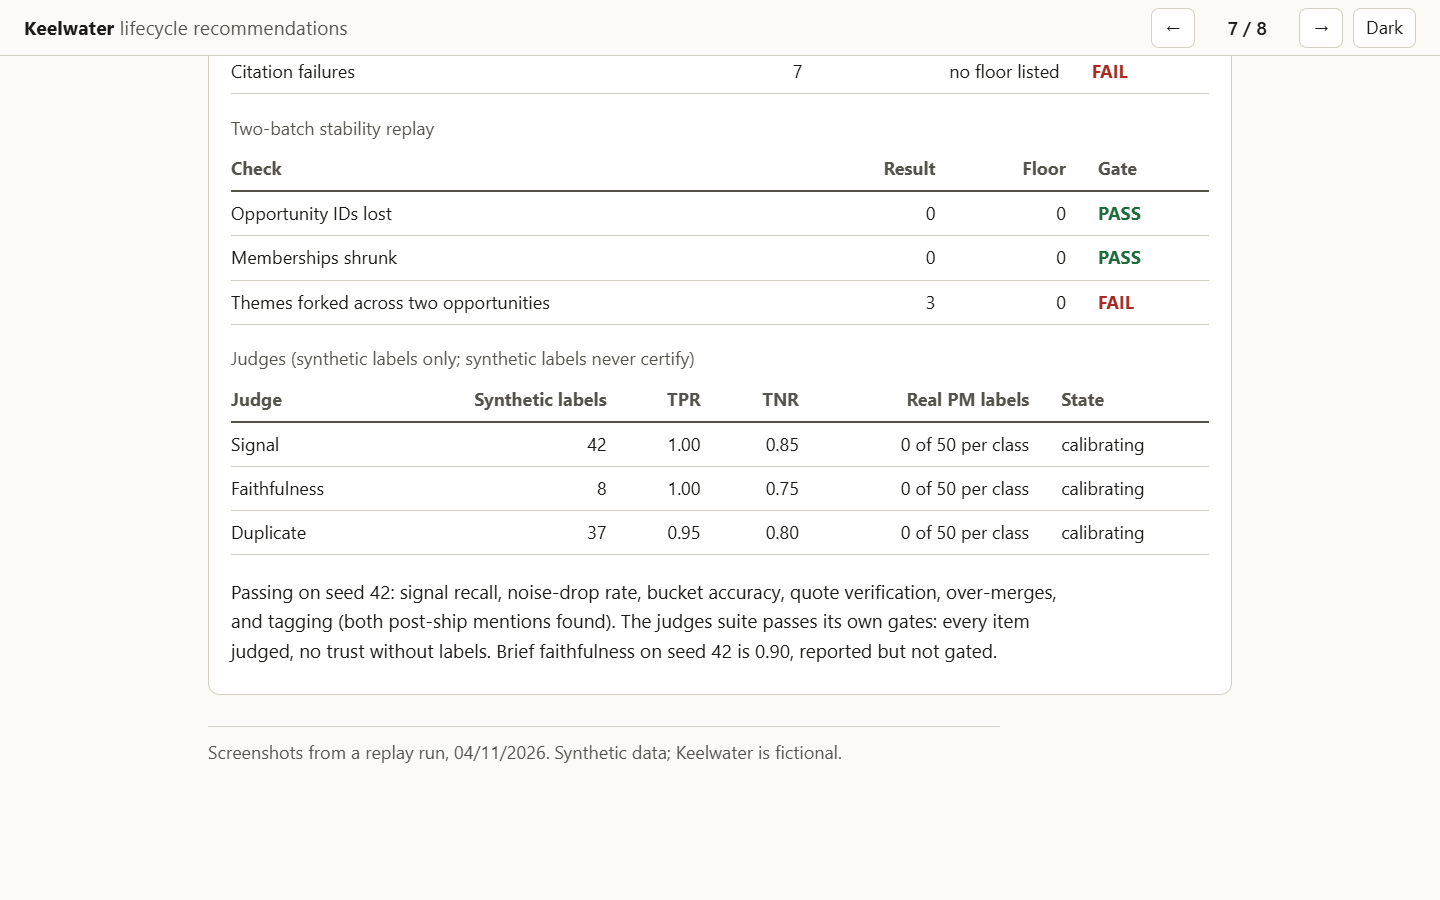
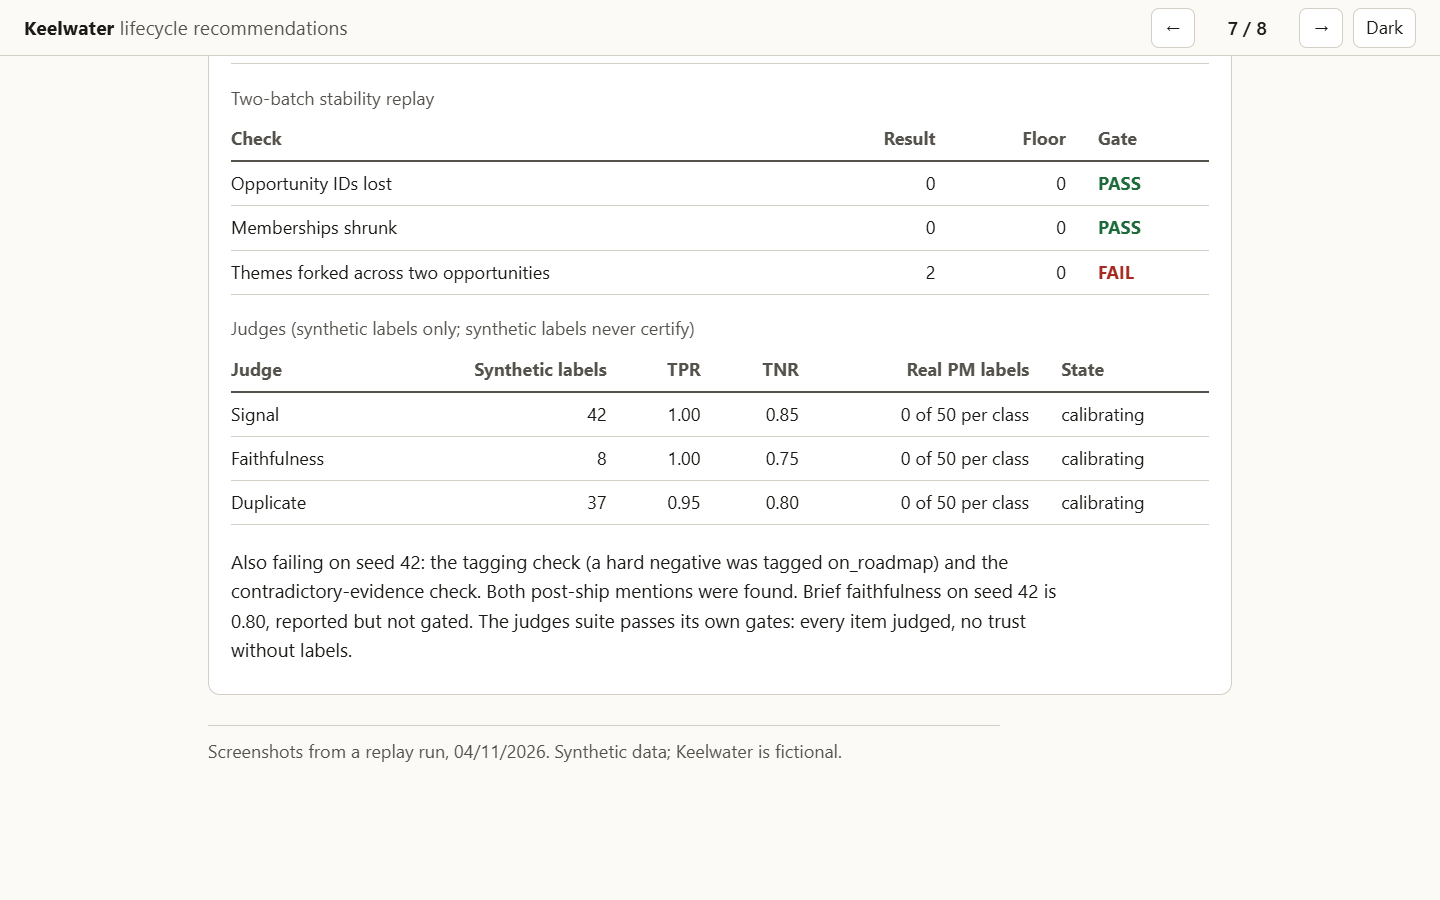
Deck: slide 7 reflects the PR #55 re-runs; two src comments (#40)
Claude-Session: https://claude.ai/code/session_01EjiHfnQNyk2qKsKvuTaiFz

diff --git a/site/presentation/index.html b/site/presentation/index.html
@@ -222,7 +222,7 @@ figure img{width:100%;height:auto;display:block;border:1px solid var(--rule);bor
 <ul>
 <li>Halving idea-to-customer time within 18 months is not plausible on my mid inputs: 79% of today's lead time at month 18.<!-- src: reports/halving/summary.md --></li>
 <li>Six recommendations follow, each linked to its slide.<!-- src: docs/part1-diagnosis-and-plan.md --></li>
-<li>Part 2 runs end to end, but its quality floors fail on the latest eval run (slide 7).<!-- src: reports/eval/ground-truth-f035b27a33a941fb.json --></li>
+<li>Part 2 runs end to end, but its quality floors fail on the latest eval run (slide 7).<!-- src: reports/eval/ground-truth-6eb6524e16bf4ed7.json --></li>
 </ul>
 </div>
 <table>
@@ -591,7 +591,7 @@ figure img{width:100%;height:auto;display:block;border:1px solid var(--rule);bor
 <tr><td>Model gateway and routing rules</td><td>Prompts within guardrails</td></tr>
 <tr><td>Eval harness and judge registry</td><td>Judge thresholds above the shared floor</td></tr>
 <tr><td>Telemetry, audit, access control</td><td>Digest cadence, in-squad visibility</td></tr>
-<tr><td>One metric dictionary: v0 (about 10 lifecycle metrics) in 60 days, the rest later with data engineering</td><td>Squad metrics, defined in it</td></tr>
+<tr><td>One metric dictionary: v0 (about 10 lifecycle metrics) in 60 days, the rest later with data engineering</td><td>Squad metrics, defined in it</td><!-- src: docs/part1-diagnosis-and-plan.md --></tr>
 </tbody>
 </table>
 <h3>What I leave alone</h3>
@@ -1128,8 +1128,8 @@ figure img{width:100%;height:auto;display:block;border:1px solid var(--rule);bor
 <h2 id="h7">It runs end to end; its quality floors fail on the latest eval run.</h2><!-- src: reports/runs/latest-demo.json -->
 <ul>
 <li>The demo data is synthetic: 30 fictional insurers, about 200 records from seven tools, about 1,200 snippets. Code checks every quote and citation.<!-- src: README.md --></li>
-<li>The three AI judges show "calibrating": none has the 50 real PM labels per class it needs.<!-- src: reports/eval/judges-8599c14cfab44628.json --></li>
-<li>Fixes are in progress and these numbers will change.</li>
+<li>The three AI judges show "calibrating": none has the 50 real PM labels per class it needs.<!-- src: reports/eval/judges-c8f850aeaaae4f24.json --></li>
+<li>The extract filter is merged (PR #55) and each seed has had its one re-run. The floors still fail, and per the author's ruling there is no further loop.<!-- src: GitHub issue #7 Done report (not a repo file) --></li>
 </ul>
 <p class="cue">Detail below</p>
 </div>
@@ -1147,7 +1147,7 @@ figure img{width:100%;height:auto;display:block;border:1px solid var(--rule);bor
 <tr><td>Extract</td><td>A cheap model writes the problem and the verbatim quote; code finds the quote in the customer's own turn.</td></tr>
 <tr><td>Cluster and rank</td><td>It joins "Reserve approvals stall when the approver is away": 7 accounts, GBP 5.42m ARR, three routes.<!-- src: README.md --></td></tr>
 <tr><td>Brief and judges</td><td>The brief cites each insight; code checks every number; the judges pass it, still calibrating.</td></tr>
-<tr><td>PM decision</td><td>The PM clicks Accept and confirms; an agent drafts an intent document and factory job, and the Trio signs off at gate 2.</td></tr>
+<tr><td>PM decision</td><td>The PM clicks Accept and confirms; an agent drafts an intent document and factory job, and the Trio signs off at gate 2.<!-- src: README.md --></td></tr>
 </tbody>
 </table>
 <figure>
@@ -1159,66 +1159,66 @@ figure img{width:100%;height:auto;display:block;border:1px solid var(--rule);bor
 
 <!-- EVAL-RESULTS START -->
 <div class="block" id="eval">
-<h3>Eval results, as of 04/11/2026 12:54 UTC</h3>
-<p>Floors come from docs/evals.md. PASS and FAIL are each suite's own gates. Suite files are in reports/eval/ (ground truth f035b27a33a941fb, holdout f855ef88e0354c36, stability cf084dc8a2c94087, judges 8599c14cfab44628). They were re-recorded under the stricter citation-number rule of PR #51, merged with PR #52 as the #13 review fixes. Compared with the first run (PR #48), citation failures rose from 7 to 10 on seed 42 and from 4 to 7 on seed 43; nothing else changed.<!-- src: reports/eval/ground-truth-f035b27a33a941fb.json, reports/eval/holdout-f855ef88e0354c36.json --> The extract filter for #7 is built on a branch and not merged, and its two live re-runs (seed 42, then seed 43) have not run, so the numbers will move when they do.<!-- src: GitHub issue #7, latest comment 11:48 UTC (not a repo file) --></p>
+<h3>Eval results, as of 04/11/2026 13:16 UTC</h3>
+<p>Floors come from docs/evals.md. PASS and FAIL are each suite's own gates. Suite files are in reports/eval/ (ground truth 6eb6524e16bf4ed7, holdout 18689fbcca9d4b0a, stability 13baecb8ba094d06, judges c8f850aeaaae4f24). The extract filter is merged (PR #55), one re-run per seed is done, and the floors still fail; per the author's ruling there is no further loop.<!-- src: reports/eval/ground-truth-6eb6524e16bf4ed7.json --> The filter dropped 57 of 360 snippets at extract and kept 303 insights.<!-- src: GitHub issue #7 Done report (not a repo file) --> The diagnosis is that clustering is the limit: average-linkage cosine cannot separate planted themes that share vocabulary.<!-- src: GitHub issue #7 Done report (not a repo file) --> Issue #13 (verification) is still open; its README limits and Done report are pending.<!-- src: GitHub issue #13 (not a repo file) --></p>
 <table>
 <caption>Triage and extraction, seed 42</caption>
 <thead><tr><th>Check</th><th class="n">Result</th><th class="n">Floor</th><th>Gate</th></tr></thead>
 <tbody>
-<tr><td>Signal recall</td><td class="n">0.952</td><td class="n">0.90</td><td class="pass">PASS</td><!-- src: reports/eval/ground-truth-f035b27a33a941fb.json --></tr>
-<tr><td>Noise-drop rate</td><td class="n">0.637</td><td class="n">0.60</td><td class="pass">PASS</td><!-- src: reports/eval/ground-truth-f035b27a33a941fb.json --></tr>
-<tr><td>Bucket accuracy</td><td class="n">0.899</td><td class="n">0.75</td><td class="pass">PASS</td><!-- src: reports/eval/ground-truth-f035b27a33a941fb.json --></tr>
-<tr><td>Quote verification</td><td class="n">0.992 (357 of 360)</td><td class="n">0.93</td><td class="pass">PASS</td><!-- src: reports/eval/ground-truth-f035b27a33a941fb.json --></tr>
-<tr><td>Account attribution</td><td class="n">0.983</td><td class="n">1.00</td><td class="fail">FAIL</td><!-- src: reports/eval/ground-truth-f035b27a33a941fb.json --></tr>
-<tr><td>Noise-audit miss rate</td><td class="n">estimate 0%; exact 0.57%</td><td class="n">reported</td><td>n/a</td><!-- src: reports/eval/ground-truth-f035b27a33a941fb.json --></tr>
+<tr><td>Signal recall</td><td class="n">0.952</td><td class="n">0.90</td><td class="pass">PASS</td><!-- src: reports/eval/ground-truth-6eb6524e16bf4ed7.json --></tr>
+<tr><td>Noise-drop rate</td><td class="n">0.637</td><td class="n">0.60</td><td class="pass">PASS</td><!-- src: reports/eval/ground-truth-6eb6524e16bf4ed7.json --></tr>
+<tr><td>Bucket accuracy</td><td class="n">0.899</td><td class="n">0.75</td><td class="pass">PASS</td><!-- src: reports/eval/ground-truth-6eb6524e16bf4ed7.json --></tr>
+<tr><td>Quote verification</td><td class="n">0.990 (300 of 303)</td><td class="n">0.93</td><td class="pass">PASS</td><!-- src: reports/eval/ground-truth-6eb6524e16bf4ed7.json --></tr>
+<tr><td>Account attribution</td><td class="n">0.981</td><td class="n">1.00</td><td class="fail">FAIL</td><!-- src: reports/eval/ground-truth-6eb6524e16bf4ed7.json --></tr>
+<tr><td>Noise-audit miss rate</td><td class="n">estimate 0%; exact 0.57%</td><td class="n">reported</td><td>n/a</td><!-- src: reports/eval/ground-truth-6eb6524e16bf4ed7.json --></tr>
 </tbody>
 </table>
 <table>
 <caption>Clusters, ranking and briefs, seed 42</caption>
 <thead><tr><th>Check</th><th class="n">Result</th><th class="n">Floor</th><th>Gate</th></tr></thead>
 <tbody>
-<tr><td>Themes recovered</td><td class="n">1 of 6</td><td class="n">6 of 6</td><td class="fail">FAIL</td><!-- src: reports/eval/ground-truth-f035b27a33a941fb.json --></tr>
-<tr><td>Mean purity</td><td class="n">0.620</td><td class="n">0.75</td><td class="fail">FAIL</td><!-- src: reports/eval/ground-truth-f035b27a33a941fb.json --></tr>
-<tr><td>Split themes</td><td class="n">3</td><td class="n">1 at most</td><td class="fail">FAIL</td><!-- src: reports/eval/ground-truth-f035b27a33a941fb.json --></tr>
-<tr><td>Over-merges</td><td class="n">0</td><td class="n">1 at most</td><td class="pass">PASS</td><!-- src: reports/eval/ground-truth-f035b27a33a941fb.json --></tr>
-<tr><td>Citation failures</td><td class="n">10</td><td class="n">0</td><td class="fail">FAIL</td><!-- src: reports/eval/ground-truth-f035b27a33a941fb.json --></tr>
-<tr><td>Noise themes in top 10</td><td class="n">1</td><td class="n">0</td><td class="fail">FAIL</td><!-- src: reports/eval/ground-truth-f035b27a33a941fb.json --></tr>
-<tr><td>Exact top-6 set</td><td class="n">no</td><td class="n">yes</td><td class="fail">FAIL</td><!-- src: reports/eval/ground-truth-f035b27a33a941fb.json --></tr>
-<tr><td>Adversarial probe below all six</td><td class="n">no</td><td class="n">yes</td><td class="fail">FAIL</td><!-- src: reports/eval/ground-truth-f035b27a33a941fb.json --></tr>
+<tr><td>Themes recovered</td><td class="n">2 of 6</td><td class="n">6 of 6</td><td class="fail">FAIL</td><!-- src: reports/eval/ground-truth-6eb6524e16bf4ed7.json --></tr>
+<tr><td>Mean purity</td><td class="n">0.588</td><td class="n">0.75</td><td class="fail">FAIL</td><!-- src: reports/eval/ground-truth-6eb6524e16bf4ed7.json --></tr>
+<tr><td>Split themes</td><td class="n">2</td><td class="n">1 at most</td><td class="fail">FAIL</td><!-- src: reports/eval/ground-truth-6eb6524e16bf4ed7.json --></tr>
+<tr><td>Over-merges</td><td class="n">0</td><td class="n">1 at most</td><td class="pass">PASS</td><!-- src: reports/eval/ground-truth-6eb6524e16bf4ed7.json --></tr>
+<tr><td>Citation failures</td><td class="n">7</td><td class="n">0</td><td class="fail">FAIL</td><!-- src: reports/eval/ground-truth-6eb6524e16bf4ed7.json --></tr>
+<tr><td>Noise themes in top 10</td><td class="n">0</td><td class="n">0</td><td class="pass">PASS</td><!-- src: reports/eval/ground-truth-6eb6524e16bf4ed7.json --></tr>
+<tr><td>Exact top-6 set</td><td class="n">no</td><td class="n">yes</td><td class="fail">FAIL</td><!-- src: reports/eval/ground-truth-6eb6524e16bf4ed7.json --></tr>
+<tr><td>Adversarial probe below all six</td><td class="n">yes</td><td class="n">yes</td><td class="pass">PASS</td><!-- src: reports/eval/ground-truth-6eb6524e16bf4ed7.json --></tr>
 </tbody>
 </table>
 <table>
 <caption>Held-out seed 43</caption>
 <thead><tr><th>Check</th><th class="n">Result</th><th class="n">Floor</th><th>Gate</th></tr></thead>
 <tbody>
-<tr><td>Signal recall</td><td class="n">1.000</td><td class="n">0.85</td><td class="pass">PASS</td><!-- src: reports/eval/holdout-f855ef88e0354c36.json --></tr>
-<tr><td>Quote verification</td><td class="n">1.000</td><td class="n">0.93</td><td class="pass">PASS</td><!-- src: reports/eval/holdout-f855ef88e0354c36.json --></tr>
-<tr><td>Account attribution</td><td class="n">1.000</td><td class="n">1.00</td><td class="pass">PASS</td><!-- src: reports/eval/holdout-f855ef88e0354c36.json --></tr>
-<tr><td>Themes recovered</td><td class="n">0 of 3</td><td class="n">2 of 3</td><td class="fail">FAIL</td><!-- src: reports/eval/holdout-f855ef88e0354c36.json --></tr>
-<tr><td>Mean purity</td><td class="n">not reported</td><td class="n">0.75</td><td class="fail">FAIL</td><!-- src: reports/eval/holdout-f855ef88e0354c36.json --></tr>
-<tr><td>Noise theme in top 10</td><td class="n">1</td><td class="n">0</td><td class="fail">FAIL</td><!-- src: reports/eval/holdout-f855ef88e0354c36.json --></tr>
-<tr><td>Citation failures</td><td class="n">7</td><td class="n">no floor listed</td><td class="fail">FAIL</td><!-- src: reports/eval/holdout-f855ef88e0354c36.json --></tr>
+<tr><td>Signal recall</td><td class="n">1.000</td><td class="n">0.85</td><td class="pass">PASS</td><!-- src: reports/eval/holdout-18689fbcca9d4b0a.json --></tr>
+<tr><td>Quote verification</td><td class="n">1.000</td><td class="n">0.93</td><td class="pass">PASS</td><!-- src: reports/eval/holdout-18689fbcca9d4b0a.json --></tr>
+<tr><td>Account attribution</td><td class="n">1.000</td><td class="n">1.00</td><td class="pass">PASS</td><!-- src: reports/eval/holdout-18689fbcca9d4b0a.json --></tr>
+<tr><td>Themes recovered</td><td class="n">0 of 3</td><td class="n">2 of 3</td><td class="fail">FAIL</td><!-- src: reports/eval/holdout-18689fbcca9d4b0a.json --></tr>
+<tr><td>Mean purity</td><td class="n">0.389</td><td class="n">0.75</td><td class="fail">FAIL</td><!-- src: reports/eval/holdout-18689fbcca9d4b0a.json --></tr>
+<tr><td>Noise theme in top 10</td><td class="n">1</td><td class="n">0</td><td class="fail">FAIL</td><!-- src: reports/eval/holdout-18689fbcca9d4b0a.json --></tr>
+<tr><td>Citation failures</td><td class="n">5</td><td class="n">no floor listed</td><td class="fail">FAIL</td><!-- src: reports/eval/holdout-18689fbcca9d4b0a.json --></tr>
 </tbody>
 </table>
 <table>
 <caption>Two-batch stability replay</caption>
 <thead><tr><th>Check</th><th class="n">Result</th><th class="n">Floor</th><th>Gate</th></tr></thead>
 <tbody>
-<tr><td>Opportunity IDs lost</td><td class="n">0</td><td class="n">0</td><td class="pass">PASS</td><!-- src: reports/eval/stability-cf084dc8a2c94087.json --></tr>
-<tr><td>Memberships shrunk</td><td class="n">0</td><td class="n">0</td><td class="pass">PASS</td><!-- src: reports/eval/stability-cf084dc8a2c94087.json --></tr>
-<tr><td>Themes forked across two opportunities</td><td class="n">3</td><td class="n">0</td><td class="fail">FAIL</td><!-- src: reports/eval/stability-cf084dc8a2c94087.json --></tr>
+<tr><td>Opportunity IDs lost</td><td class="n">0</td><td class="n">0</td><td class="pass">PASS</td><!-- src: reports/eval/stability-13baecb8ba094d06.json --></tr>
+<tr><td>Memberships shrunk</td><td class="n">0</td><td class="n">0</td><td class="pass">PASS</td><!-- src: reports/eval/stability-13baecb8ba094d06.json --></tr>
+<tr><td>Themes forked across two opportunities</td><td class="n">2</td><td class="n">0</td><td class="fail">FAIL</td><!-- src: reports/eval/stability-13baecb8ba094d06.json --></tr>
 </tbody>
 </table>
 <table>
 <caption>Judges (synthetic labels only; synthetic labels never certify)</caption>
 <thead><tr><th>Judge</th><th class="n">Synthetic labels</th><th class="n">TPR</th><th class="n">TNR</th><th class="n">Real PM labels</th><th>State</th></tr></thead>
 <tbody>
-<tr><td>Signal</td><td class="n">42</td><td class="n">1.00</td><td class="n">0.85</td><td class="n">0 of 50 per class</td><td>calibrating</td><!-- src: reports/eval/judges-8599c14cfab44628.json --></tr>
-<tr><td>Faithfulness</td><td class="n">8</td><td class="n">1.00</td><td class="n">0.75</td><td class="n">0 of 50 per class</td><td>calibrating</td><!-- src: reports/eval/judges-8599c14cfab44628.json --></tr>
-<tr><td>Duplicate</td><td class="n">37</td><td class="n">0.95</td><td class="n">0.80</td><td class="n">0 of 50 per class</td><td>calibrating</td><!-- src: reports/eval/judges-8599c14cfab44628.json --></tr>
+<tr><td>Signal</td><td class="n">42</td><td class="n">1.00</td><td class="n">0.85</td><td class="n">0 of 50 per class</td><td>calibrating</td><!-- src: reports/eval/judges-c8f850aeaaae4f24.json --></tr>
+<tr><td>Faithfulness</td><td class="n">8</td><td class="n">1.00</td><td class="n">0.75</td><td class="n">0 of 50 per class</td><td>calibrating</td><!-- src: reports/eval/judges-c8f850aeaaae4f24.json --></tr>
+<tr><td>Duplicate</td><td class="n">37</td><td class="n">0.95</td><td class="n">0.80</td><td class="n">0 of 50 per class</td><td>calibrating</td><!-- src: reports/eval/judges-c8f850aeaaae4f24.json --></tr>
 </tbody>
 </table>
-<p>Passing on seed 42: signal recall, noise-drop rate, bucket accuracy, quote verification, over-merges, and tagging (both post-ship mentions found). The judges suite passes its own gates: every item judged, no trust without labels. Brief faithfulness on seed 42 is 0.90, reported but not gated.<!-- src: reports/eval/ground-truth-f035b27a33a941fb.json, reports/eval/judges-8599c14cfab44628.json --></p>
+<p>Also failing on seed 42: the tagging check (a hard negative was tagged on_roadmap) and the contradictory-evidence check. Both post-ship mentions were found. Brief faithfulness on seed 42 is 0.80, reported but not gated. The judges suite passes its own gates: every item judged, no trust without labels.<!-- src: reports/eval/ground-truth-6eb6524e16bf4ed7.json --><!-- src: reports/eval/judges-c8f850aeaaae4f24.json --></p>
 </div>
 <!-- EVAL-RESULTS END -->
 
